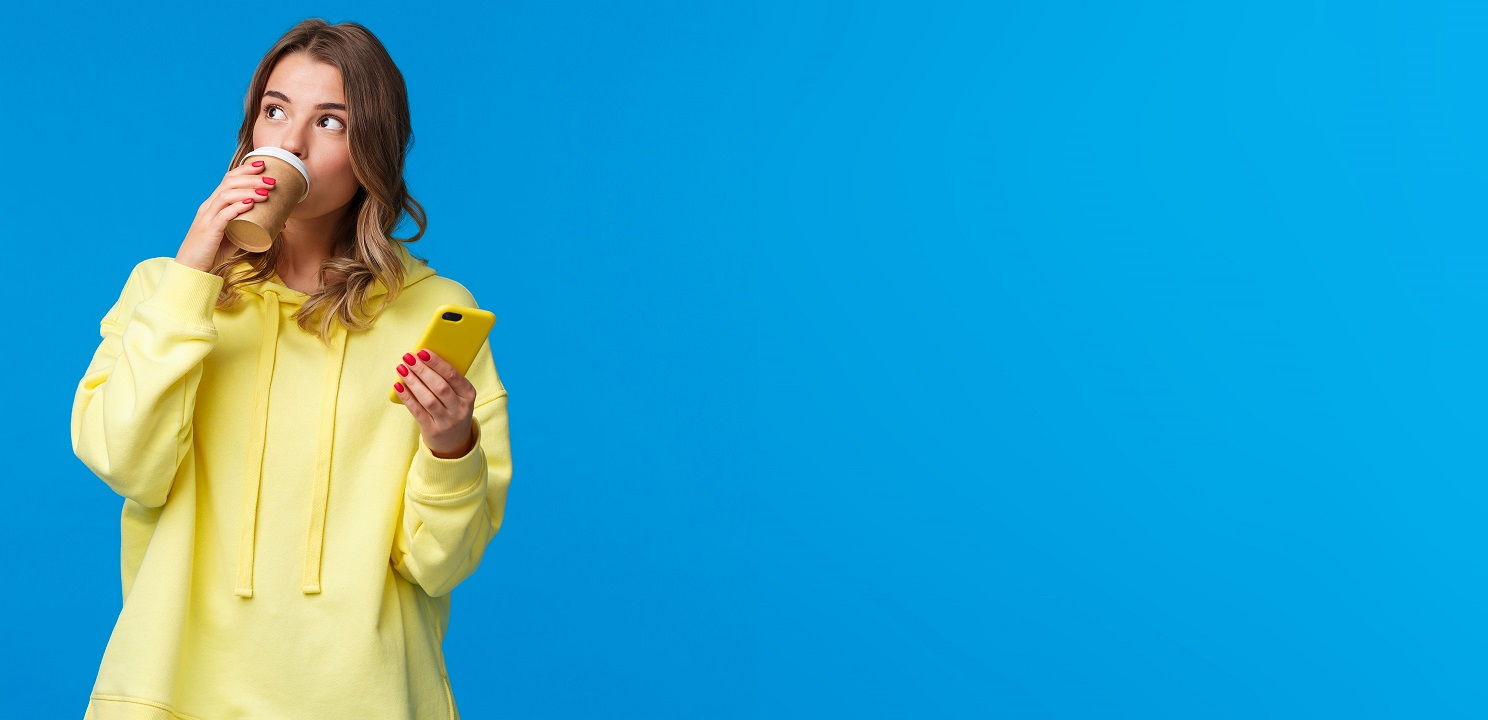
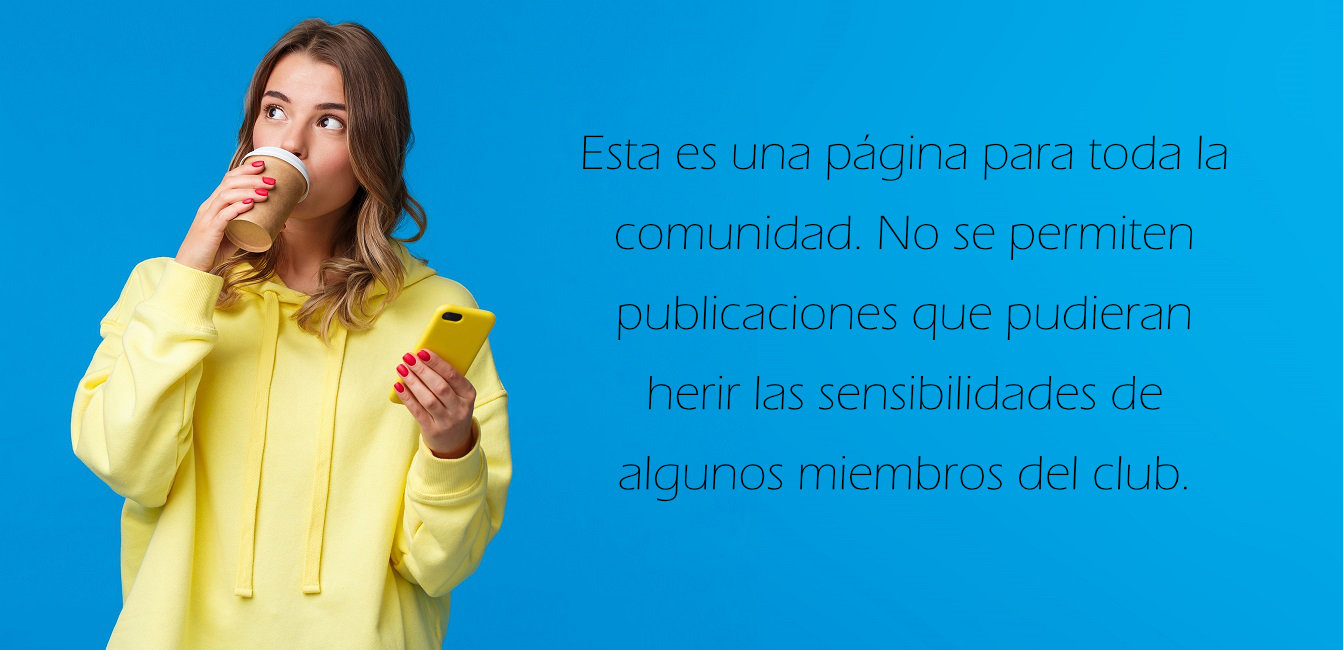
mejora del styling del navbar

diff --git a/src/Components/Homecontainer/index.jsx b/src/Components/Homecontainer/index.jsx
@@ -18,19 +18,26 @@ export default function HomeContainer() {
   const { theme } = useContext(truequeContext);
 
   const containerStyles = {
-    backgroundColor: theme === 'dark' ? '#343a40'  : '#fff',
+    backgroundColor: theme === 'dark' ? '#343a40' : '#fff',
     color: theme === 'dark' ? '#fff' : '#343a40',
-};
-    return (
-        <div style={containerStyles}>
-            <CarrouselPrincipal />
-            <Contador />
-            <UltimosProductos />
-            <Title style={{ color: "#78909c" }}>
-          <h1><b>Buscar por Categorías</b></h1>
-        </Title><hr></hr>
-            <div className="container-fluid pt-2 px-3">
-
+  };
+  return (
+    <div style={containerStyles}>
+      <CarrouselPrincipal />
+      <Contador />
+      <UltimosProductos />
+      <Title style={{ color: "#78909c" }}>
+        <h1><b>Ver Todos los Trueques</b></h1>
+      </Title><hr></hr>
+      <div className="row">
+            <div className="col-sm-12 col-md-12 col-lg-12 p-1">
+              <Banner category="Productos" />
+            </div>
+          </div>
+      <Title style={{ color: "#78909c" }}>
+        <h1><b>Buscar por Categorías</b></h1>
+      </Title><hr></hr>
+      <div className="container-fluid pt-2 px-3">
         <div className="col-sm-12 col-md-12 col-lg-12 p-1">
           <div className="row">
             <div className="col-sm-6 col-md-12 col-lg-3 p-1">
@@ -39,28 +46,28 @@ export default function HomeContainer() {
             <div className="col-sm-6 col-md-4 col-lg-3 p-1">
               <Banner category="Accesorios" />
             </div>
-          <div className="col-sm-6 col-md-4 col-lg-3 p-1">
+            <div className="col-sm-6 col-md-4 col-lg-3 p-1">
               <Banner category="Salud" />
-          </div>
-          <div className="col-sm-6 col-md-4 col-lg-3 p-1">
+            </div>
+            <div className="col-sm-6 col-md-4 col-lg-3 p-1">
               <Banner category="Belleza" />
-          </div>
+            </div>
           </div>
           <div className="row">
             <div className="col-sm-6 col-md-4 col-lg-3 p-1">
               <Banner category="Deportes" />
             </div>
             <div className="col-sm-6 col-md-4 col-lg-3 p-1">
-            <Banner category="Hogar" />
+              <Banner category="Hogar" />
             </div>
             <div className="col-sm-6 col-md-4 col-lg-3 p-1">
-            <Banner category="Electrodomesticos" />
+              <Banner category="Electrodomesticos" />
             </div>
             <div className="col-sm-6 col-md-4 col-lg-3 p-1">
-            <Banner category="Herramientas" />
+              <Banner category="Herramientas" />
             </div>
-            </div>
-            <div className="row">
+          </div>
+          <div className="row">
             <div className="col-sm-6 col-md-4 col-lg-3 p-1">
               <Banner category="Contrucción" />
             </div>
@@ -73,17 +80,17 @@ export default function HomeContainer() {
             <div className="col-sm-6 col-md-4 col-lg-3 p-1">
               <Banner category="Bebés" />
             </div>
-            </div>
-            <div className="row">
+          </div>
+          <div className="row">
             <div className="col-sm-6 col-md-6 col-lg-6 p-1">
               <Banner category="Vehículos" />
             </div>
             <div className="col-sm-6 col-md-6 col-lg-6 p-1">
               <Banner category="Servicios" />
             </div>
-            </div>
           </div>
-          </div> 
         </div>
-)}
-    
+      </div>
+    </div>
+  )
+}

diff --git a/src/Components/Carousel/index.jsx b/src/Components/Carousel/index.jsx
@@ -39,12 +39,10 @@ export default function CarrouselPrincipal() {
 
   return (
     <>
-      <div className="TextFijo">Esta es una página para toda la comunidad. No se permiten publicaciones que pudieran herir las sensibilidades de algunos miembros del club. El desarrollador y El Club del Trueque no se hacen responsables por las transacciones efectuadas. </div>
       <div className="my-1">
         <div className="col-sm-12 col-md-12 col-lg-12 p-1">
           <div className="row">
             <div className="col-sm-0 col-md-2 col-lg-2 p-1">
-              {/* <a>    <img className="Img2" src={sponsormp} alt="Mercado Pago"></img>   </a> */}
             </div>
             <div className="col-sm-12 col-md-8 col-lg-8 p-1">
               <Carousel
@@ -60,7 +58,7 @@ export default function CarrouselPrincipal() {
               </Carousel>
             </div>
             <div className="col-sm-0 col-md-2 col-lg-2 p-1">
-              <a href="https://mainero.uy/"  target="_blank"><img className="Img" src={sponsor1} alt="Mainero"></img></a>
+              <a href="https://mainero.uy/"  target="_blank" rel="noreferrer"><img className="Img" src={sponsor1} alt="Mainero"></img></a>
             </div>
    
           </div>

diff --git a/src/Components/Carousel/Carousel.css b/src/Components/Carousel/Carousel.css
@@ -20,63 +20,25 @@
     position: initial;
   
   }
-  /* .Img2 {
-    max-height: 350px;
-    object-fit: fill;
-    position: initial;
-    padding-left: 10%;
-  } */
+
   .home__bannert--big {
     font-size: 2rem;
   }
 
-  .TextFijo {
-  position: absolute;
-  justify-content: center;
-  margin-top: 6%;
-  margin-left: 20%;
-  text-align:center;
-  width:60%;
-  color: white;
-  text-shadow: 5px 5px grey ;
-  font-size: 30px;
-  z-index: 999;
-  font-weight: bolder;
-
-  }
   @media only screen and (max-width: 1200px) {
-    .TextFijo {
-      margin-top: 5%;
-      margin-left: 18%;
-      font-size: 25px;
-      width: 55%;
-  }
+   
   .Img {
     height: 300px;
   }
   }
   @media only screen and (max-width: 1000px) {
-    .TextFijo {
-      margin-top: 4%;
-      margin-left: 17%;
-      font-size: 18px;
-      width: 65%;
-  }
+    
   }
   @media only screen and (max-width: 768px) {
-    .TextFijo {
-      margin-top: 28%;
-      margin-left: 8%;
-      font-size: 14px;
-      width: 75%;
-  }
+    
   .Img {
     display: none;
 
   }
-  .Img2 {
-    display: contents;
-    width: 100%;
-    height: fit-content;
-  }
+
   }

diff --git a/src/Admin/Edit.js b/src/Admin/Edit.js
@@ -20,7 +20,7 @@ function Edit() {
     const navigate = useNavigate()
     const location = useLocation();
     const { id } = useParams()
-    const { logout, currentUser } = useAuth();
+    const { logout } = useAuth();
 
     useEffect(() => {
 
@@ -117,6 +117,7 @@ function Edit() {
             if (fileURL === imgUrl) {
                 setImgUrl("");
             } 
+            navigate("/show")
         } catch (error) {
             console.error("Error deleting image:", error);
         }
@@ -128,6 +129,7 @@ function Edit() {
             if (fileURL === imgUrl2) {
                 setImgUrl2("");
             } 
+            navigate("/show")
         } catch (error) {
             console.error("Error deleting image:", error);
         }

diff --git a/src/Components/Banner/Banner.css b/src/Components/Banner/Banner.css
@@ -15,6 +15,15 @@
     
 }
 
+#bannerProductos{
+    background: url(/public/img/bannerProductos.jpg);
+    background-position: center;
+    background-repeat: no-repeat;
+    background-size: cover;
+    text-shadow: 2px 3px black;
+    max-height:300px ;
+}
+
 #bannerTecnología{
     background: url(/public/img/bannerTecnología.jpg);
     background-position: center;
@@ -191,5 +200,7 @@
         font-size: 140%;
 
     }
-
+    .textbanner-button{
+        translate: -60px;
+    }
 }

diff --git a/src/Components/Navbar/index.jsx b/src/Components/Navbar/index.jsx
@@ -20,7 +20,7 @@ function NavScrollExample() {
 };
 
   return (
-    <Navbar expand="lg" style={containerStyles}>
+    <Navbar expand="lg" id="barraGeneral" style={containerStyles}>
       <Container>
       <Nav.Link href='/'><img src={logo} id='logo' alt="logo trueque" /></Nav.Link>
         <Navbar.Toggle aria-controls="navbarScroll" />

diff --git a/src/Admin/Create.js b/src/Admin/Create.js
@@ -99,6 +99,7 @@ const Create = () => {
             if (fileURL === imgUrl) {
                 setImgUrl("");
             } 
+            navigate("/show")
         } catch (error) {
             console.error("Error deleting image:", error);
         }

diff --git a/src/Components/Navbar/Navbar.css b/src/Components/Navbar/Navbar.css
@@ -34,6 +34,12 @@
 #barra {
   flex-grow: 1;
 }
+#barraGeneral {
+  height: 75px;
+  position: sticky;
+  top: 0;
+  z-index: 999;  
+}
   @media only screen and (max-width: 1000px) {
   #botonEntrar{
     width: 1px;
